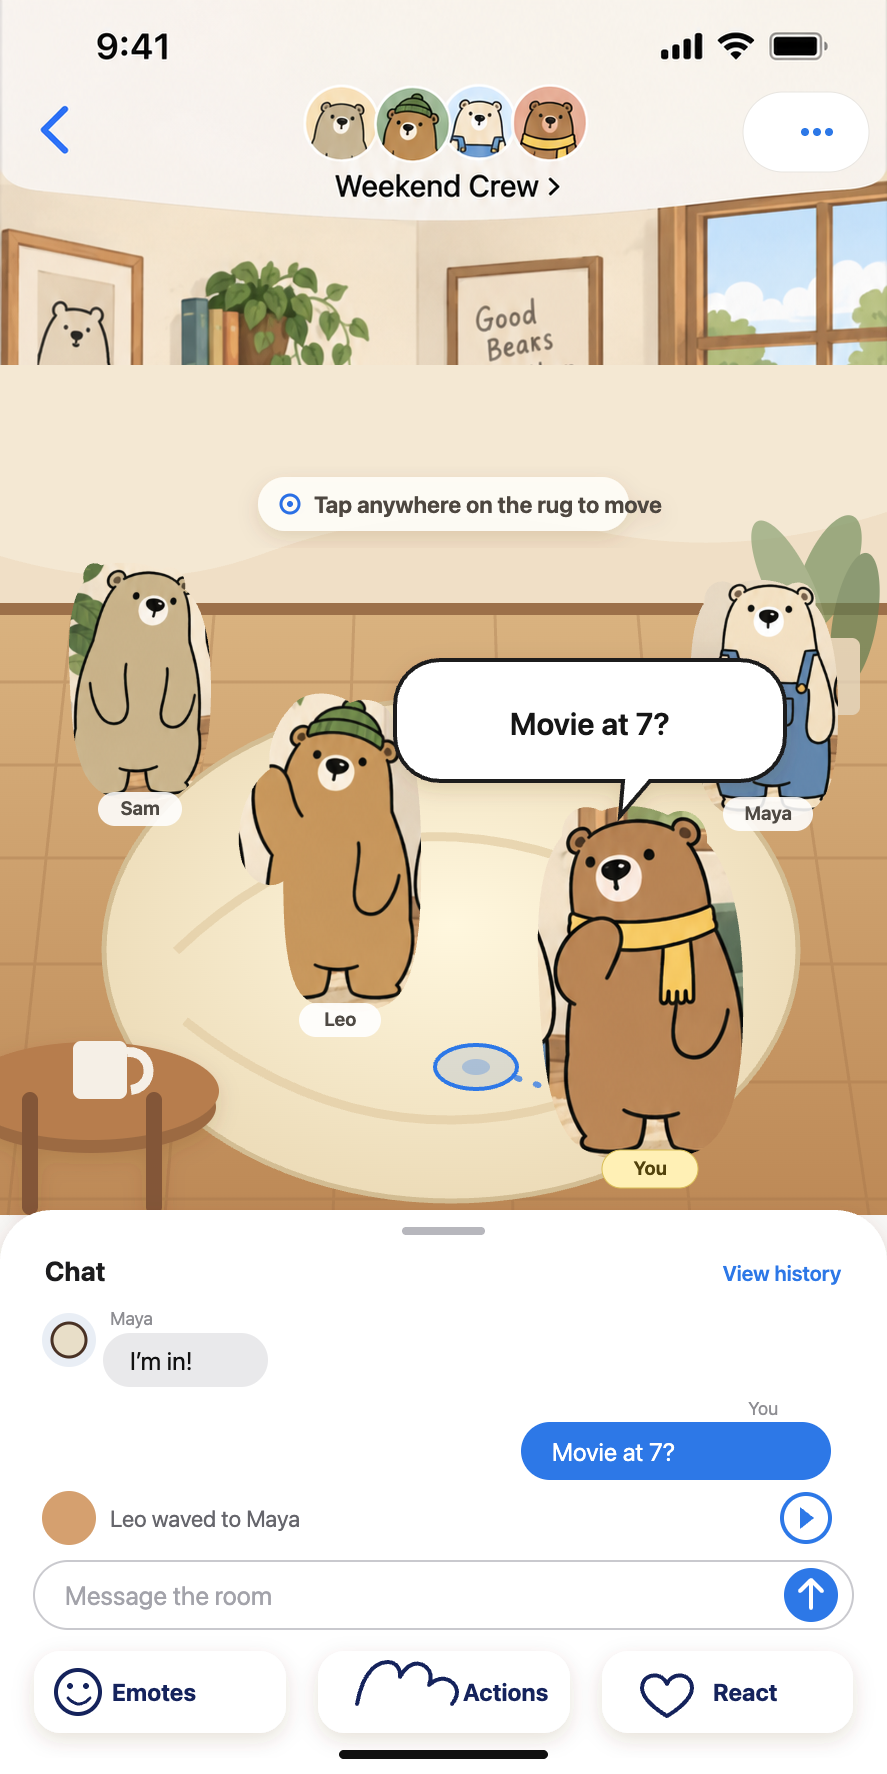
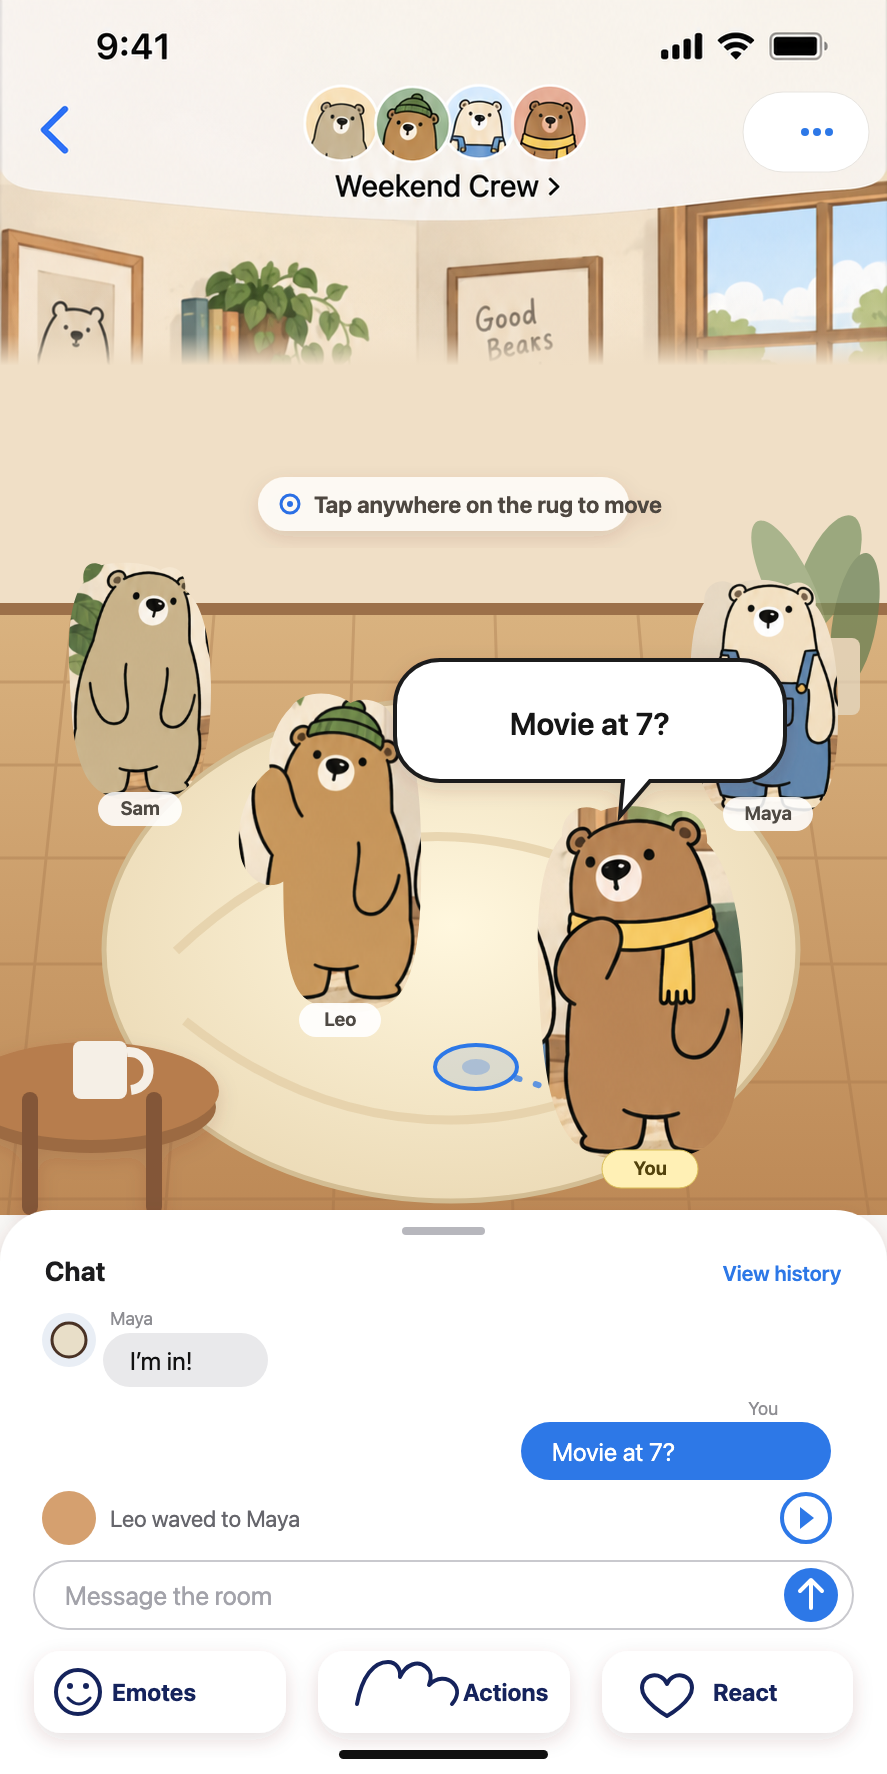
closing out product decisions

diff --git a/TODO.md b/TODO.md
@@ -7,32 +7,29 @@ Task format: `- [ ] \`T<n>\` <description> — <manual|agent>[, complexity: simp
 ## Product and design approval
 
 - [x] `T1` Review and approve the Bear Chat product spec — manual, design: docs/designs/product-spec.md
-- [ ] `T2` Review the enlarged moving-bear room mock and provide visual feedback — manual, design: docs/designs/bear-chat-room-mock-v2.png
-- [ ] `T3` Review and approve the standalone Bear Chat high-level design — manual, depends-on: T1, T2, design: docs/designs/2026-09-20-bear-chat-standalone-hld.md
-- [ ] `T4` Review and approve the LLD baseline after resolving its preimplementation questions — manual, depends-on: T3, T5, T6, T7, T8, T9, T10, T11, T12, T13, T14, T15, T16, T17, design: docs/designs/2026-09-20-bear-chat-standalone-hld-lld.md
-- [ ] `T5` Confirm the minimum iOS version and supported iPhone boundary — manual, depends-on: T3, design: docs/designs/2026-09-20-bear-chat-standalone-hld-lld.md
-- [ ] `T6` Decide whether owner-only forming and remaining rooms are valid product states — manual, depends-on: T3, design: docs/designs/2026-09-20-bear-chat-standalone-hld-lld.md
-- [ ] `T7` Decide how owned rooms must be resolved before account deletion — manual, depends-on: T3, design: docs/designs/2026-09-20-bear-chat-standalone-hld-lld.md
-- [ ] `T8` Approve the room-deletion purge window and user-facing deletion semantics — manual, depends-on: T3, design: docs/designs/2026-09-20-bear-chat-standalone-hld-lld.md
-- [ ] `T9` Approve report categories, disclosed context, reviewer fields, and retention policy — manual, depends-on: T3, design: docs/designs/2026-09-20-bear-chat-standalone-hld-lld.md
-- [ ] `T10` Choose the fresh-install invitation recovery behavior — manual, depends-on: T3, design: docs/designs/2026-09-20-bear-chat-standalone-hld-lld.md
-- [ ] `T11` Approve detailed-notification event kinds, content limits, and privacy copy — manual, depends-on: T3, design: docs/designs/2026-09-20-bear-chat-standalone-hld-lld.md
-- [ ] `T12` Confirm whether blocking is symmetric for interactions and notifications — manual, depends-on: T3, design: docs/designs/2026-09-20-bear-chat-standalone-hld-lld.md
-- [ ] `T13` Choose the least-privilege safety-review interface for beta and production — manual, depends-on: T3, design: docs/designs/2026-09-20-bear-chat-standalone-hld-lld.md
-- [ ] `T14` Approve a foreground committed-message delivery latency objective — manual, depends-on: T3, design: docs/designs/2026-09-20-bear-chat-standalone-hld-lld.md
-- [ ] `T15` Approve display-name, room-name, message, invitation-expiry, and invitation-use limits — manual, depends-on: T3, design: docs/designs/2026-09-20-bear-chat-standalone-hld-lld.md
-- [ ] `T16` Choose when the app requests notification permission — manual, depends-on: T3, design: docs/designs/2026-09-20-bear-chat-standalone-hld-lld.md
-- [ ] `T17` Confirm supported orientation and compact-versus-expanded room panel behavior — manual, depends-on: T3, design: docs/designs/2026-09-20-bear-chat-standalone-hld-lld.md
+- [x] `T2` Review the enlarged moving-bear room mock and provide visual feedback — manual, design: docs/designs/bear-chat-room-mock-v2.png
+- [x] `T3` Review and approve the standalone Bear Chat high-level design — manual, depends-on: T1, T2, design: docs/designs/2026-09-20-bear-chat-standalone-hld.md
+- [x] `T4` Review and approve the LLD baseline after resolving its preimplementation questions — manual, depends-on: T3, T5, T6, T7, T8, T10, T11, T14, T15, T16, T17, design: docs/designs/2026-09-20-bear-chat-standalone-hld-lld.md
+- [x] `T5` Confirm the minimum iOS version and supported iPhone boundary — manual, design: docs/designs/2026-09-20-bear-chat-standalone-hld-lld.md *(Resolved: iOS 17 confirmed)*
+- [x] `T6` Decide whether owner-only forming and remaining rooms are valid product states — manual, design: docs/designs/2026-09-20-bear-chat-standalone-hld-lld.md *(Resolved: no one-member rooms; creation requires adding at least one other person)*
+- [x] `T7` Decide how owned rooms must be resolved before account deletion — manual, design: docs/designs/2026-09-20-bear-chat-standalone-hld-lld.md *(Resolved: user must transfer or delete owned rooms first)*
+- [x] `T8` Approve the room-deletion purge window and user-facing deletion semantics — manual, design: docs/designs/2026-09-20-bear-chat-standalone-hld-lld.md *(Resolved: immediate permanent purge with confirmation warning)*
+- [ ] `T9` Approve report categories, disclosed context, reviewer fields, and retention policy — manual *(Deferred: not required for internal TestFlight)*
+- [x] `T10` Choose the fresh-install invitation recovery behavior — manual, design: docs/designs/2026-09-20-bear-chat-standalone-hld-lld.md *(Resolved: re-tap invite link after install)*
+- [x] `T11` Approve detailed-notification event kinds, content limits, and privacy copy — manual, design: docs/designs/2026-09-20-bear-chat-standalone-hld-lld.md *(Resolved: follow messaging app norms — sender name + truncated text for messages, brief description for actions/reactions)*
+- [ ] `T12` Confirm whether blocking is symmetric for interactions and notifications — manual *(Deferred: blocking deferred entirely for internal TestFlight)*
+- [ ] `T13` Choose the least-privilege safety-review interface for beta and production — manual *(Deferred: not required for internal TestFlight)*
+- [x] `T14` Approve a foreground committed-message delivery latency objective — manual, design: docs/designs/2026-09-20-bear-chat-standalone-hld-lld.md *(Resolved: best effort, measure during spike)*
+- [x] `T15` Approve display-name, room-name, message, invitation-expiry, and invitation-use limits — manual, design: docs/designs/2026-09-20-bear-chat-standalone-hld-lld.md *(Resolved: 30 char display name, 50 char room name, 1000 char message, 7-day invite expiry, no use limit)*
+- [x] `T16` Choose when the app requests notification permission — manual, design: docs/designs/2026-09-20-bear-chat-standalone-hld-lld.md *(Resolved: during onboarding)*
+- [x] `T17` Confirm supported orientation and compact-versus-expanded room panel behavior — manual, design: docs/designs/2026-09-20-bear-chat-standalone-hld-lld.md *(Resolved: portrait only, drag to expand, follow mock proportions)*
 
 ## External setup and policy
 
 - [ ] `T18` Provision Apple identifiers, Sign in with Apple, APNs credentials, and associated-domain capabilities — manual, depends-on: T4, design: docs/designs/2026-09-20-bear-chat-standalone-hld-lld.md
-- [ ] `T19` Provision development, staging, and production Supabase projects with Apple authentication and environment secrets — manual, depends-on: T4, design: docs/designs/2026-09-20-bear-chat-standalone-hld-lld.md
+- [ ] `T19` Provision development, staging, and production Supabase projects with Apple authentication and environment secrets — manual, depends-on: T4, design: docs/designs/2026-09-20-bear-chat-standalone-hld-lld.md *(In progress: dev project created, API URL and keys saved. Apple Auth config blocked on T18)*
 - [ ] `T20` Provision the invitation domain, TLS hosting, and Universal Link association hosting — manual, depends-on: T4, T10, design: docs/designs/2026-09-20-bear-chat-standalone-hld-lld.md
 - [ ] `T21` Publish approved privacy, safety, moderation, non-E2EE, and deletion policies — manual, depends-on: T4, T8, T9, T11, T12, design: docs/designs/2026-09-20-bear-chat-standalone-hld-lld.md
-- [ ] `T201` Create the App Store Connect app listing (name, bundle ID, SKU) and configure TestFlight internal tester group — manual, depends-on: T18, design: docs/designs/2026-09-20-bear-chat-standalone-hld.md
-- [ ] `T202` Add an Xcode archive and TestFlight upload lane to CI — agent, complexity: complex, depends-on: T27, T201, design: docs/designs/2026-09-20-bear-chat-standalone-hld.md
-- [ ] `T203` Configure TestFlight external testing group and submit first build for Beta App Review — manual, depends-on: T21, T168, T202, design: docs/designs/2026-09-20-bear-chat-standalone-hld.md
 - [ ] `T22` Provide the approved MVP room, appearance, action, reaction, and audio asset pack — manual, depends-on: T2, T4, design: docs/designs/2026-09-20-bear-chat-standalone-hld-lld.md
 - [ ] `T23` Approve production rate-limit values from measured event, presence, and movement load — manual, depends-on: T177, T178, design: docs/designs/2026-09-20-bear-chat-standalone-hld-lld.md
 - [ ] `T24` Approve the production cache budget from offline and oldest-device measurements — manual, depends-on: T175, T179, design: docs/designs/2026-09-20-bear-chat-standalone-hld-lld.md
@@ -263,3 +260,6 @@ Task format: `- [ ] \`T<n>\` <description> — <manual|agent>[, complexity: simp
 - [ ] `T198` Document the environment secret-rotation runbook — agent, complexity: simple, depends-on: T19, T169, design: docs/designs/2026-09-20-bear-chat-standalone-hld-lld.md
 - [ ] `T199` Document budget alerts and Supabase provider-status monitoring — agent, complexity: simple, depends-on: T19, T167, T169, design: docs/designs/2026-09-20-bear-chat-standalone-hld-lld.md
 - [ ] `T200` Configure the signed content-minimized database webhook for committed events — agent, complexity: complex, depends-on: T71, T155, design: docs/designs/2026-09-20-bear-chat-standalone-hld-lld.md
+- [ ] `T201` Create the App Store Connect app listing (name, bundle ID, SKU) and configure TestFlight internal tester group — manual, depends-on: T18, design: docs/designs/2026-09-20-bear-chat-standalone-hld.md
+- [ ] `T202` Add an Xcode archive and TestFlight upload lane to CI — agent, complexity: complex, depends-on: T27, T201, design: docs/designs/2026-09-20-bear-chat-standalone-hld.md
+- [ ] `T203` Configure TestFlight external testing group and submit first build for Beta App Review — manual, depends-on: T21, T168, T202, design: docs/designs/2026-09-20-bear-chat-standalone-hld.md

diff --git a/docs/designs/2026-09-20-bear-chat-standalone-hld-lld.md b/docs/designs/2026-09-20-bear-chat-standalone-hld-lld.md
@@ -601,14 +601,19 @@ No service-role key, Apple private key, APNs key, invite secret, or raw push tok
 ## Open questions
 
 1. **Approval gate:** The source product spec, visual mock, and HLD are still pending `T1` through `T3`, and the HLD's independent review did not complete. Accepted for now: keep this LLD in draft and do not treat its stack or mechanisms as an approved implementation baseline.
-2. **Minimum OS:** The design uses iOS 17, SwiftData, and Swift Observation, but product approval has not confirmed the support boundary. Accepted for now: target iOS 17 and revisit before creating the Xcode project.
-3. **One-member room transition:** The spec defines rooms as having two to eight members, while room creation necessarily has only the owner until someone joins and a room can later lose all other members. Accepted for now: permit an owner-only private room as a forming/remaining state while enforcing the maximum of eight; confirm product language before schema approval.
-4. **Owned rooms during account deletion:** Automatic transfer would silently choose a new owner, while unconditional room deletion would remove other members' history. Accepted for now: require the user to transfer or explicitly delete every owned room before final account deletion and return `owned_rooms_require_resolution` otherwise.
-5. **Deletion and report retention:** The HLD requires a room purge window and report-retention exception but gives no durations or exact report context. Accepted for now: make both server-controlled policy constants and block production launch until legal/safety owners approve the durations, disclosure text, and captured fields.
-6. **Fresh-install invitation recovery:** Universal Links cannot by themselves preserve a bearer secret through App Store installation. Accepted for now: verify on the minimum iOS version that the installed-app handoff preserves the fragment, require reopening the original link after a fresh install, and choose a privacy-safe deferred-link provider or revise FR-8.3 if automatic continuation is mandatory.
+2. **Minimum OS:** ~~Accepted for now: target iOS 17 and revisit before creating the Xcode project.~~ **Resolved:** iOS 17 confirmed. SwiftData and Swift Observation are available.
+3. **One-member room transition:** ~~Accepted for now: permit an owner-only private room as a forming/remaining state while enforcing the maximum of eight.~~ **Resolved:** No one-member rooms. Room creation requires adding at least one other person, matching standard messenger behavior. The create flow must include an invitation step so the room is not persisted until at least one invite is issued. A room that loses all non-owner members is placed in an "invite someone" state rather than treated as a normal active room.
+4. **Owned rooms during account deletion:** ~~Accepted for now: require the user to transfer or explicitly delete every owned room before final account deletion.~~ **Resolved:** Confirmed. The user must transfer ownership or explicitly delete every owned room before account deletion proceeds. The service returns `owned_rooms_require_resolution` otherwise.
+5. **Deletion and report retention:** ~~Accepted for now: make both server-controlled policy constants and block production launch until approved.~~ **Partially resolved:** Room deletion permanently purges data immediately (no undo window). The app shows a confirmation warning that chat data will be permanently lost. Report categories, disclosed context, reviewer fields, and retention policy are deferred — not required for internal TestFlight.
+6. **Fresh-install invitation recovery:** ~~Accepted for now: require reopening the original link after a fresh install.~~ **Resolved:** Confirmed. Users must re-tap the invite link after installing from the App Store.
 7. **Rate-limit values:** Event, movement, heartbeat, invite, join, report, and device-registration thresholds are not product decisions yet. Accepted for now: implement operation-specific server constants and test enforcement, but choose production values from architecture-spike/load data before beta.
-8. **Detailed notification content:** The exact event kinds and text length allowed in opt-in detailed previews are unspecified. Accepted for now: support generic notifications first; enable detailed previews only after privacy copy and payload limits are approved.
-9. **Block notification semantics:** The spec describes inbound blocking while the HLD says directed interactions and notifications are prevented between the pair. Accepted for now: prevent targeted interactions in either direction and suppress push caused by either person for the other, but do not hide shared room events; confirm this broader symmetric behavior with product review.
-10. **Safety-review interface:** The HLD requires least-privilege audited review but excludes a separate web app. Accepted for now: use a separate provider/operator role and audited runbook for beta; confirm the provider can enforce the required row and audit boundaries before launch, or scope a minimal internal tool.
+8. **Detailed notification content:** ~~Accepted for now: support generic notifications first.~~ **Resolved:** Follow standard messaging app conventions. Opt-in detailed previews show sender display name and truncated message text for text events. Other event kinds (actions, reactions) use a brief description (e.g., "Bear Name waved"). Previews are truncated to a single notification line.
+9. **Block notification semantics:** ~~Accepted for now: prevent targeted interactions in either direction.~~ **Deferred:** Blocking is deferred entirely for the internal TestFlight build. Will be revisited before external TestFlight or App Store submission.
+10. **Safety-review interface:** ~~Accepted for now: use a separate provider/operator role and audited runbook for beta.~~ **Deferred:** Not required for internal TestFlight. Will be revisited before external TestFlight or App Store submission.
 11. **Cache budget:** The initial 200-events-per-room and 20-room budget is not device-measured. Accepted for now: keep it in `ProductLimits` and replace it with oldest-device measurements before beta.
 12. **Room and asset production:** `lodge-v1` geometry, spawn points, scale bounds, compatibility rules, and action catalogs are placeholders until final art is authored. Accepted for now: version every resource and make unknown/newer versions degrade to safe defaults.
+13. **Content and invitation limits:** **Resolved:** Display name max 30 characters, room name max 50 characters, message text max 1,000 characters, invitation default expiry 7 days, no per-invite use limit (room capacity of 8 enforces the practical ceiling).
+14. **Notification permission timing:** **Resolved:** Prompt during onboarding.
+15. **Orientation and panel behavior:** **Resolved:** Portrait only. The compact chat panel follows the mock layout. Drag to expand; expanded state covers approximately the upper portion of the room. Follow the mock for proportions.
+16. **Message delivery latency:** **Resolved:** Best effort for the internal TestFlight. No committed latency SLA. Measure during architecture spike and revisit before production.
+17. **TestFlight distribution:** **Resolved:** Internal TestFlight only for initial test run (up to 25 testers, no Beta App Review). Reporting, blocking, and safety-review features are deferred until external TestFlight or App Store submission.
